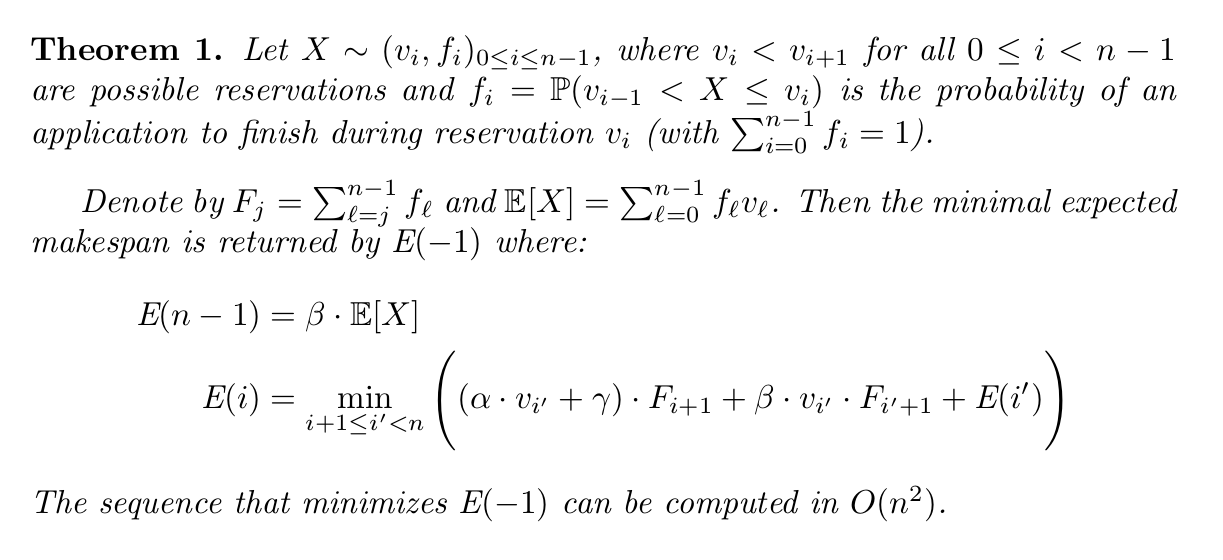
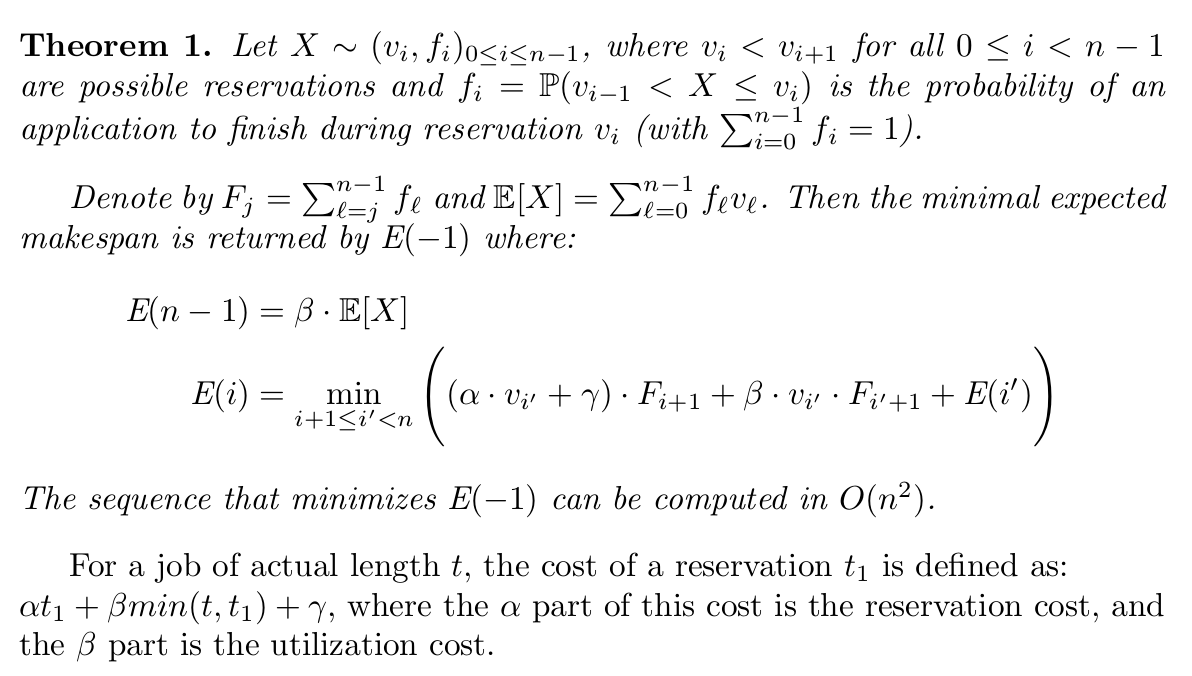
Explanation for chosing alpha beta and gamma

diff --git a/README.md b/README.md
@@ -4,6 +4,8 @@ Code for computing the optimal request time for a stochastic application when su
 
 ![Optimal sequence](https://github.com/anagainaru/HPCWalltime/blob/master/docs/progdyn.png)
 
+Different alpha, beta, gamma values can be chosen to model large-scale systems. We use alpha=1, beta=0, gamma=0 to model the cloud cost model ("pay for what you reserve") and alpha=1, beta>=1, gamma=0 for the HPC cost model ("pay for what you reserve - wait time in the queue - and for what you use - node hours -).
+
 ## Usage
 
 To use this code for generating walltime requests, include:
